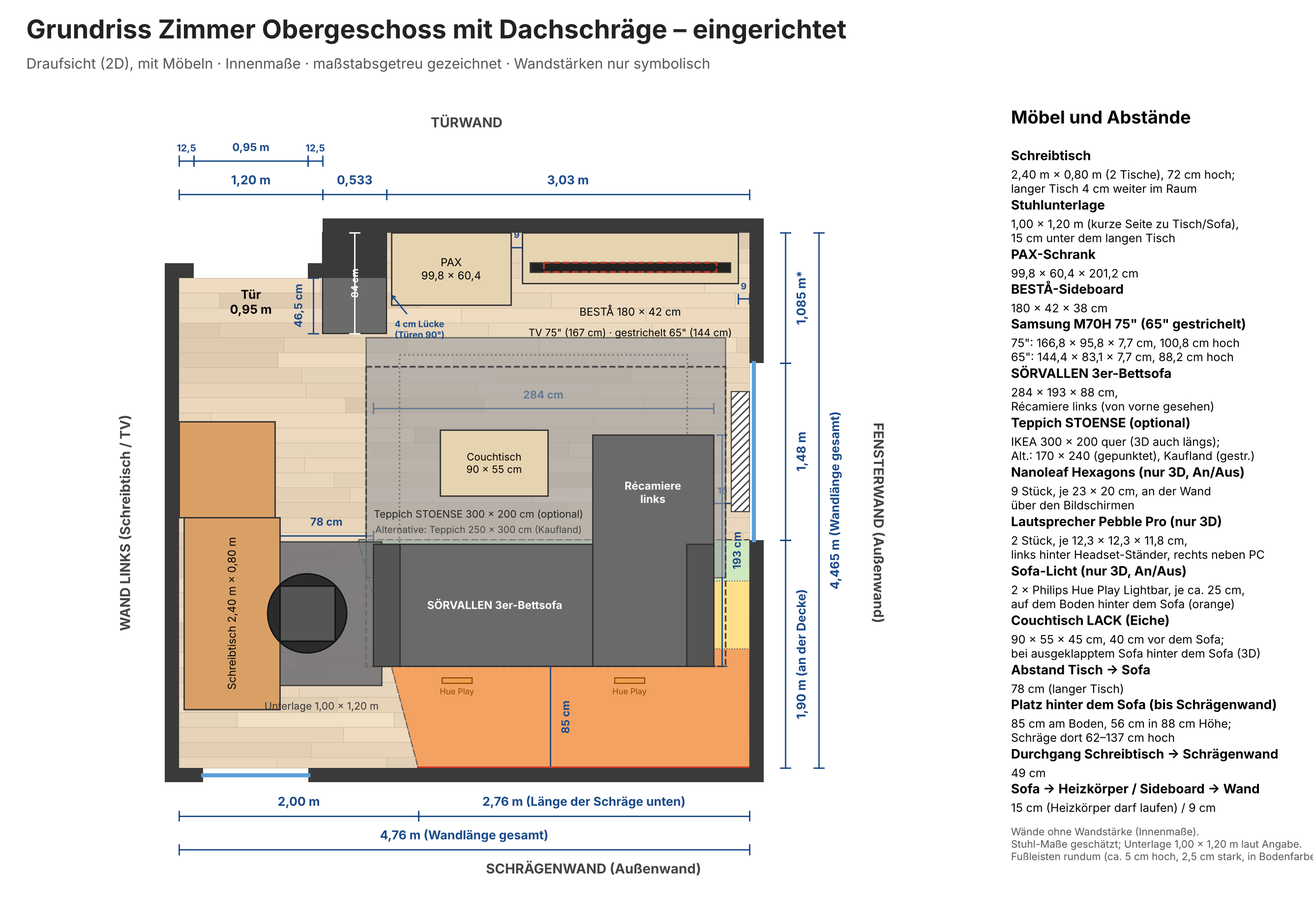
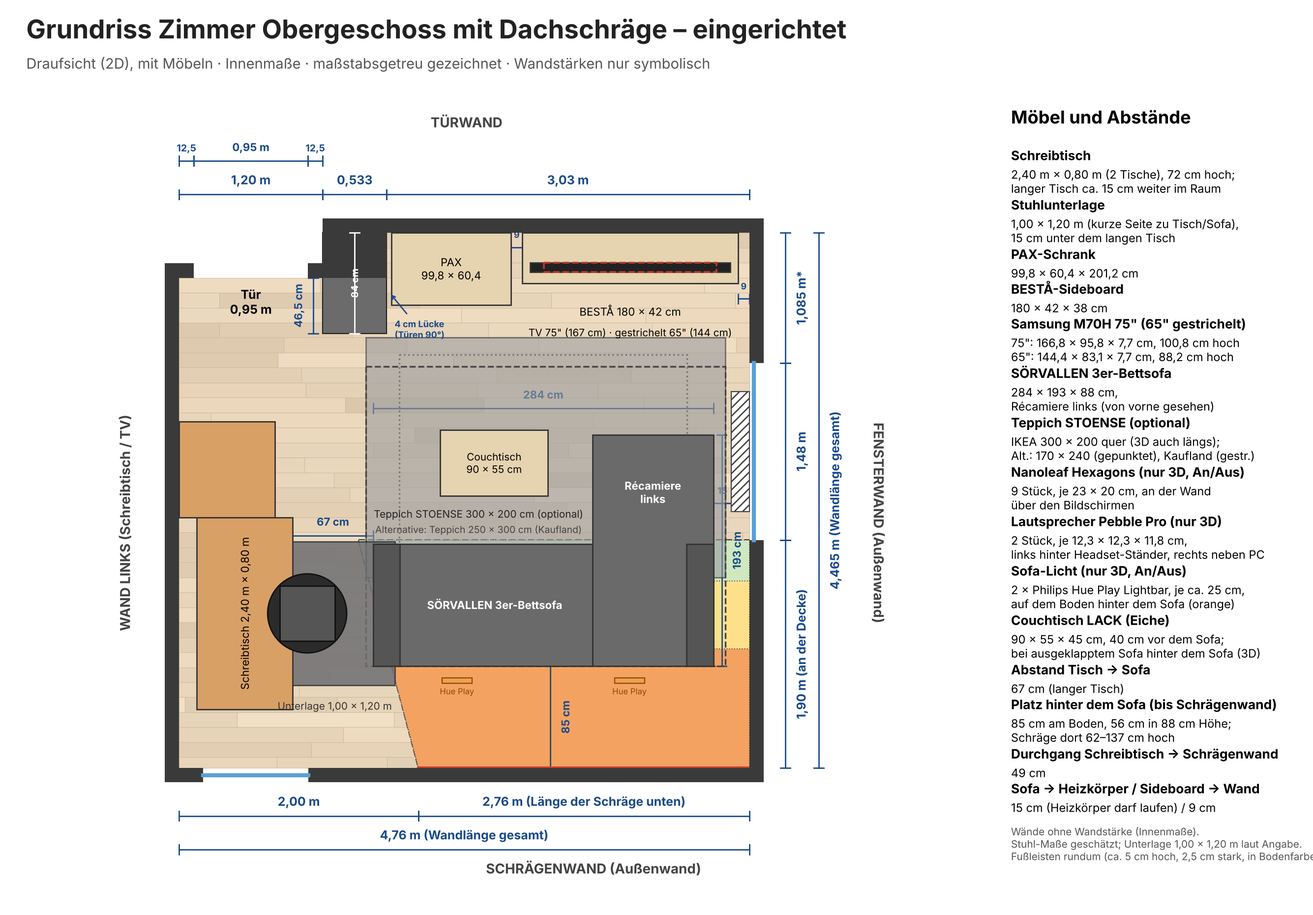
Langer Tisch ca. 15 cm weiter im Raum (aus Foto), Tisch-Sofa 67 cm, Unterlage angepasst
Claude-Session: https://claude.ai/code/session_01Hf3Bkowp5NFKLbRns8Nosg

Changed region(s): [[0.1243, 0.5613, 0.2798, 0.7796], [0.8393, 0.1871, 0.9326, 0.2183], [0.2798, 0.7172, 0.3109, 0.7484]]

diff --git a/eingerichtet.html b/eingerichtet.html
@@ -336,9 +336,9 @@ cat='tisch';
 // Schreibtisch an der linken Wand (aus zwei Tischen, zusammen 2,40 m, je 80 cm tief, 72 cm hoch)
 // 49 cm Abstand zur Schrägenwand, 1,20 m Abstand zur Türwand. Aufteilung 1,60 m + 0,80 m geschätzt.
 var DT=0.025,DHT=0.72,DEP=0.80,Y0=1.20,Y1=Y0+0.80,Y2=D-0.49,BEECH=0xd9a066,BLK=0x2b2b2b;
-box(0.04,Y1,DHT-DT,DEP+0.04,Y2,DHT,BEECH);   // Tisch links (1,60 m, Fensterseite): steht 4 cm weiter im Raum (Angabe)
+box(0.15,Y1,DHT-DT,DEP+0.15,Y2,DHT,BEECH);   // Tisch links (1,60 m, Fensterseite): steht ca. 15 cm weiter im Raum (aus Foto geschätzt)
 box(0,Y0,DHT-DT,DEP,Y1,DHT,BEECH);   // Tisch rechts (0,80 m, Türseite): steht an der Wand/Fußleiste
-[[Y1+0.15,0.04],[Y2-0.15,0.04],[Y0+0.15,0],[Y1-0.15,0]].forEach(function(q){var yc=q[0],dx=q[1];
+[[Y1+0.15,0.15],[Y2-0.15,0.15],[Y0+0.15,0],[Y1-0.15,0]].forEach(function(q){var yc=q[0],dx=q[1];
   box(0.37+dx,yc-0.03,0.04,0.43+dx,yc+0.03,DHT-DT,BLK);   // Standbein
   box(0.10+dx,yc-0.03,0,0.70+dx,yc+0.03,0.04,BLK);        // Fuß
 });
@@ -640,7 +640,7 @@ Object.keys(RUGS).forEach(function(n){var R=RUGS[n],r=R.r,s=room.children.length
 
 cat='stuhl';
 // Stuhlunterlage 100 x 120 cm + Bürostuhl (Maße geschätzt: Sitz 50 x 50, Gesamthöhe 98, Fußkreuz Ø 66)
-var MX0=0.69,MX1=1.69,MY0=2.20,MY1=3.40,CCX=1.07,CCY=2.80;   // mittig unter dem 1,60-m-Tischteil (y 2,00-3,60)   // Unterlage 1,00 m (Tisch -> Sofa, kurze Seite) x 1,20 m (längs zum Tisch), ragt 15 cm unter den langen Tisch (Angabe), reicht 7 cm unters Sofa
+var MX0=0.80,MX1=1.80,MY0=2.20,MY1=3.40,CCX=1.07,CCY=2.80;   // mittig unter dem 1,60-m-Tischteil (y 2,00-3,60)   // Unterlage 1,00 m (Tisch -> Sofa, kurze Seite) x 1,20 m (längs zum Tisch), ragt 15 cm unter den langen Tisch (Angabe), reicht 18 cm unters Sofa
 box(MX0,MY0,0,MX1,MY1,0.008,0x6e6e72);
 var CHC=0x222226;
 box(CCX-0.225,CCY-0.225,0.45,CCX+0.225,CCY+0.225,0.51,CHC);      // Sitzfläche 45 x 45
@@ -666,8 +666,8 @@ box(CCX-0.04,CCY+0.24,0.51,CCX-0.01,CCY+0.27,0.63,CHC);
     fn(hx2,vy2);
     var g=new THREE.BufferGeometry();g.setAttribute('position',new THREE.Float32BufferAttribute(v,3));
     room.add(new THREE.LineSegments(g,new THREE.LineBasicMaterial({color:0xd2691e})));}
-  mk('abstand',function(hx2){hx2(2.10,0.84,SX0);hx2(2.95,CCX+0.275,SX0);});
-  mk('stuhl',function(hx2,vy2){hx2(MY0,MX0,MX1);hx2(MY0-0.12,MX0,0.84);vy2(MX1,MY0,MY1);});
+  mk('abstand',function(hx2){hx2(2.10,0.95,SX0);hx2(2.95,CCX+0.275,SX0);});
+  mk('stuhl',function(hx2,vy2){hx2(MY0,MX0,MX1);hx2(MY0-0.12,MX0,0.95);vy2(MX1,MY0,MY1);});
 })();
 cat='tisch';
 var pcLedMats=[];
@@ -878,8 +878,8 @@ var LC={'Schreibtisch 2,40 m':'tisch','Höhe 72 cm':'tisch','Tiefe 80 cm':'tisch
  'Sideboard 180 × 42 × 38 cm':'sideboard','Sideboard TONSTAD 178,4 × 37,2 × 54,9 cm':'sideboardT','54,9 cm':'sideboardT','178,4 cm':'sideboardT','Rest bis Fensterwand ≈ 0,10 m (TONSTAD)':'sideboardT','38 cm':'sideboard','180 cm':'sideboard','Rest bis Fensterwand ≈ 0,09 m':'sideboard',
  'Fernseher 75" · Panel 166,8 × 95,8 × 7,7 cm · 22 kg (BESTÅ trägt 30 kg)':'tv','Bilddiagonale ≈ 189 cm (75 Zoll)':'tv','100,8 cm (mit Füßen)':'tv','138,8 cm gesamt':'tv',
  'Sofa SÖRVALLEN 284 × 193 × 88 cm':'sofa','284 cm':'sofa','85 cm Platz hinter dem Sofa (Schräge dort 62–137 cm hoch)':'sofa','Tiefe 102 cm':'sofa','193 cm':'sofa','Decke 137 cm: 49 cm Luft über Rücken (88 cm)':'sofa','15 cm bis Heizkörper':'sofa','Schlaffläche 239 × 147 cm':'bett','239 cm':'bett','147 cm':'bett','Bettkante bis Sideboard 89 cm':'bett','Couchtisch LACK 90 × 55 × 45 cm':'ctn','Breite 90 cm':'ctn','Tiefe 55 cm':'ctn','bis Sofa 40 cm':'ctn','bis Récamiere 36 cm':'ctn','bis Sideboard 85 cm':'ctn','Höhe 45 cm':'ctn','Couchtisch LACK 90 × 55 × 45 cm (hinter dem Sofa)':'ctb','Breite 90 cm (hinter dem Sofa)':'ctb','Tiefe 55 cm (hinter dem Sofa)':'ctb','bis Sofa 10 cm':'ctb','bis Schrägenwand 20 cm':'ctb','Tischhöhe 45 cm':'ctb',
- 'Unterlage 120 cm':'stuhl','15 cm unter Tischplatte':'stuhl','Unterlage 100 cm':'stuhl','Unterlage 7 cm unterm Sofa':'stuhl','Bürostuhl (geschätzt)':'stuhl',
- 'Tisch bis Sofa 78 cm':'abstand','Stuhl–Sofa 27 cm':'abstand'};Object.assign(LC,RUGLC);LEDLB.forEach(function(l){LC[l[0]]='led';});TVLB.forEach(function(l){LC[l[0]]='tvled';});TVLB65.forEach(function(l){LC[l[0]]='tvled65';});TVLBL65.forEach(function(l){LC[l[0]]='tv65';});TVLB85.forEach(function(l){LC[l[0]]='tvled85';});TVLBL85.forEach(function(l){LC[l[0]]='tv85';});SFLB.forEach(function(l){LC[l[0]]='sofaled';});
+ 'Unterlage 120 cm':'stuhl','15 cm unter Tischplatte':'stuhl','Unterlage 100 cm':'stuhl','Unterlage 18 cm unterm Sofa':'stuhl','Bürostuhl (geschätzt)':'stuhl',
+ 'Tisch bis Sofa 67 cm':'abstand','Stuhl–Sofa 27 cm':'abstand'};Object.assign(LC,RUGLC);LEDLB.forEach(function(l){LC[l[0]]='led';});TVLB.forEach(function(l){LC[l[0]]='tvled';});TVLB65.forEach(function(l){LC[l[0]]='tvled65';});TVLBL65.forEach(function(l){LC[l[0]]='tv65';});TVLB85.forEach(function(l){LC[l[0]]='tvled85';});TVLBL85.forEach(function(l){LC[l[0]]='tv85';});SFLB.forEach(function(l){LC[l[0]]='sofaled';});
 var labels=[
  ['4,76 m',W/2,-NY-0.25,0],['4,465 m (Fensterwand)',W+0.25,(D-NY)/2,0],['4,09 m',-0.25,D/2,0],['Raumhöhe 2,30 m*',-0.2,-0.2,H/2],
  ['Schräge unten 0,62 m',W+0.2,D,K/2],['Schräge 1,90 m',W+0.15,YS,H],['Tür 0,95 m',0.6,-0.1,2.12],
@@ -895,8 +895,8 @@ var labels=[
  ['Schlaffläche 239 × 147 cm',3.05,(BYF+BYR)/2,0.9],['239 cm',(BXA+BXB)/2,BYF-0.15,0.02],['147 cm',SX0-0.12,(BYF+BYR)/2,0.02],['Bettkante bis Sideboard 89 cm',4.10,(SBD+BYF)/2,0.02],
  ['Couchtisch LACK 90 × 55 × 45 cm',(CTN[0]+CTN[2])/2,(CTN[1]+CTN[3])/2,0.62],['Breite 90 cm',(CTN[0]+CTN[2])/2,CTN[1]-0.10,0.02],['Tiefe 55 cm',2.08,(CTN[1]+CTN[3])/2,0.02],['bis Sofa 40 cm',2.08,(CTN[3]+D-SGAP-1.02)/2,0.02],['bis Récamiere 36 cm',(CTN[2]+SX0+1.825)/2,1.55,0.02],['bis Sideboard 85 cm',2.75,(SBD+CTN[1])/2,0.02],['Höhe 45 cm',CTN[2]+0.06,1.545,0.22],['Couchtisch LACK 90 × 55 × 45 cm (hinter dem Sofa)',(CTB[0]+CTB[2])/2,(CTB[1]+CTB[3])/2,0.62],['Breite 90 cm (hinter dem Sofa)',(CTB[0]+CTB[2])/2,CTB[3]+0.10,0.02],['Tiefe 55 cm (hinter dem Sofa)',2.50,(CTB[1]+CTB[3])/2,0.02],['bis Sofa 10 cm',2.50,D-SGAP+0.05,0.02],['bis Schrägenwand 20 cm',3.70,(CTB[3]+D)/2,0.02],['Tischhöhe 45 cm',CTB[2]+0.06,(CTB[1]+CTB[3])/2,0.22],
  
- ['Tisch bis Sofa 78 cm',(0.84+SX0)/2,2.10,0.03],['Unterlage 100 cm',(MX0+MX1)/2,MY0-0.04,0.03],['15 cm unter Tischplatte',MX0+0.07,MY0-0.12,0.03],['Unterlage 120 cm',MX1,(MY0+MY1)/2,0.03],
- ['Stuhl–Sofa 27 cm',(CCX+0.275+SX0)/2,2.95,0.03],['Unterlage 7 cm unterm Sofa',MX1,MY0-0.12,0.03],['Bürostuhl (geschätzt)',CCX,CCY,1.12],['99,8 cm',PX0+PW/2,0.75,0.02],['Lücke 4 cm (Türen 90°)',(1.733+PX0)/2,0.30,0.02],['180 cm',SB0+SBW/2,0.75,0.02],['Rest bis Fensterwand ≈ 0,09 m',(SB0+SBW+W)/2,0.75,0.02],['178,4 cm',SBT.X0+SBT.W/2,0.75,0.02],['Rest bis Fensterwand ≈ 0,10 m (TONSTAD)',SBT.X0+SBT.W+0.115,0.75,0.02]
+ ['Tisch bis Sofa 67 cm',(0.95+SX0)/2,2.10,0.03],['Unterlage 100 cm',(MX0+MX1)/2,MY0-0.04,0.03],['15 cm unter Tischplatte',MX0+0.07,MY0-0.12,0.03],['Unterlage 120 cm',MX1,(MY0+MY1)/2,0.03],
+ ['Stuhl–Sofa 27 cm',(CCX+0.275+SX0)/2,2.95,0.03],['Unterlage 18 cm unterm Sofa',MX1,MY0-0.12,0.03],['Bürostuhl (geschätzt)',CCX,CCY,1.12],['99,8 cm',PX0+PW/2,0.75,0.02],['Lücke 4 cm (Türen 90°)',(1.733+PX0)/2,0.30,0.02],['180 cm',SB0+SBW/2,0.75,0.02],['Rest bis Fensterwand ≈ 0,09 m',(SB0+SBW+W)/2,0.75,0.02],['178,4 cm',SBT.X0+SBT.W/2,0.75,0.02],['Rest bis Fensterwand ≈ 0,10 m (TONSTAD)',SBT.X0+SBT.W+0.115,0.75,0.02]
 ].concat(RUGLB).concat(LEDLB).concat(TVLB).concat(TVLB65).concat(TVLBL65).concat(TVLB85).concat(TVLBL85).concat(SFLB).map(function(l){var d=document.createElement('div');d.className='lbl';d.textContent=l[0];stage.appendChild(d);return {el:d,p:P(l[1],l[2]-(({schrank:1,sideboard:1,sideboardT:1,tv:1,tv65:1,tv85:1,tvled:1,tvled65:1,tvled85:1})[LC[l[0]]]?NY:0),l[3]),cat:LC[l[0]]||'raum'};});
 // Nische: Schrank, Sideboard, Fernseher und TV-LED stehen an der neuen Rückwand (NY weiter hinten)
 // Texturen für Möbel, die bisher nur eine Grundfarbe hatten (Lambert-Farbe wirkt als Tönung auf die helle Textur)

diff --git a/eingerichtet_mobil.html b/eingerichtet_mobil.html
@@ -349,9 +349,9 @@ cat='tisch';
 // Schreibtisch an der linken Wand (aus zwei Tischen, zusammen 2,40 m, je 80 cm tief, 72 cm hoch)
 // 49 cm Abstand zur Schrägenwand, 1,20 m Abstand zur Türwand. Aufteilung 1,60 m + 0,80 m geschätzt.
 var DT=0.025,DHT=0.72,DEP=0.80,Y0=1.20,Y1=Y0+0.80,Y2=D-0.49,BEECH=0xd9a066,BLK=0x2b2b2b;
-box(0.04,Y1,DHT-DT,DEP+0.04,Y2,DHT,BEECH);   // Tisch links (1,60 m, Fensterseite): steht 4 cm weiter im Raum (Angabe)
+box(0.15,Y1,DHT-DT,DEP+0.15,Y2,DHT,BEECH);   // Tisch links (1,60 m, Fensterseite): steht ca. 15 cm weiter im Raum (aus Foto geschätzt)
 box(0,Y0,DHT-DT,DEP,Y1,DHT,BEECH);   // Tisch rechts (0,80 m, Türseite): steht an der Wand/Fußleiste
-[[Y1+0.15,0.04],[Y2-0.15,0.04],[Y0+0.15,0],[Y1-0.15,0]].forEach(function(q){var yc=q[0],dx=q[1];
+[[Y1+0.15,0.15],[Y2-0.15,0.15],[Y0+0.15,0],[Y1-0.15,0]].forEach(function(q){var yc=q[0],dx=q[1];
   box(0.37+dx,yc-0.03,0.04,0.43+dx,yc+0.03,DHT-DT,BLK);   // Standbein
   box(0.10+dx,yc-0.03,0,0.70+dx,yc+0.03,0.04,BLK);        // Fuß
 });
@@ -653,7 +653,7 @@ Object.keys(RUGS).forEach(function(n){var R=RUGS[n],r=R.r,s=room.children.length
 
 cat='stuhl';
 // Stuhlunterlage 100 x 120 cm + Bürostuhl (Maße geschätzt: Sitz 50 x 50, Gesamthöhe 98, Fußkreuz Ø 66)
-var MX0=0.69,MX1=1.69,MY0=2.20,MY1=3.40,CCX=1.07,CCY=2.80;   // mittig unter dem 1,60-m-Tischteil (y 2,00-3,60)   // Unterlage 1,00 m (Tisch -> Sofa, kurze Seite) x 1,20 m (längs zum Tisch), ragt 15 cm unter den langen Tisch (Angabe), reicht 7 cm unters Sofa
+var MX0=0.80,MX1=1.80,MY0=2.20,MY1=3.40,CCX=1.07,CCY=2.80;   // mittig unter dem 1,60-m-Tischteil (y 2,00-3,60)   // Unterlage 1,00 m (Tisch -> Sofa, kurze Seite) x 1,20 m (längs zum Tisch), ragt 15 cm unter den langen Tisch (Angabe), reicht 18 cm unters Sofa
 box(MX0,MY0,0,MX1,MY1,0.008,0x6e6e72);
 var CHC=0x222226;
 box(CCX-0.225,CCY-0.225,0.45,CCX+0.225,CCY+0.225,0.51,CHC);      // Sitzfläche 45 x 45
@@ -679,8 +679,8 @@ box(CCX-0.04,CCY+0.24,0.51,CCX-0.01,CCY+0.27,0.63,CHC);
     fn(hx2,vy2);
     var g=new THREE.BufferGeometry();g.setAttribute('position',new THREE.Float32BufferAttribute(v,3));
     room.add(new THREE.LineSegments(g,new THREE.LineBasicMaterial({color:0xd2691e})));}
-  mk('abstand',function(hx2){hx2(2.10,0.84,SX0);hx2(2.95,CCX+0.275,SX0);});
-  mk('stuhl',function(hx2,vy2){hx2(MY0,MX0,MX1);hx2(MY0-0.12,MX0,0.84);vy2(MX1,MY0,MY1);});
+  mk('abstand',function(hx2){hx2(2.10,0.95,SX0);hx2(2.95,CCX+0.275,SX0);});
+  mk('stuhl',function(hx2,vy2){hx2(MY0,MX0,MX1);hx2(MY0-0.12,MX0,0.95);vy2(MX1,MY0,MY1);});
 })();
 cat='tisch';
 var pcLedMats=[];
@@ -891,8 +891,8 @@ var LC={'Schreibtisch 2,40 m':'tisch','Höhe 72 cm':'tisch','Tiefe 80 cm':'tisch
  'Sideboard 180 × 42 × 38 cm':'sideboard','Sideboard TONSTAD 178,4 × 37,2 × 54,9 cm':'sideboardT','54,9 cm':'sideboardT','178,4 cm':'sideboardT','Rest bis Fensterwand ≈ 0,10 m (TONSTAD)':'sideboardT','38 cm':'sideboard','180 cm':'sideboard','Rest bis Fensterwand ≈ 0,09 m':'sideboard',
  'Fernseher 75" · Panel 166,8 × 95,8 × 7,7 cm · 22 kg (BESTÅ trägt 30 kg)':'tv','Bilddiagonale ≈ 189 cm (75 Zoll)':'tv','100,8 cm (mit Füßen)':'tv','138,8 cm gesamt':'tv',
  'Sofa SÖRVALLEN 284 × 193 × 88 cm':'sofa','284 cm':'sofa','85 cm Platz hinter dem Sofa (Schräge dort 62–137 cm hoch)':'sofa','Tiefe 102 cm':'sofa','193 cm':'sofa','Decke 137 cm: 49 cm Luft über Rücken (88 cm)':'sofa','15 cm bis Heizkörper':'sofa','Schlaffläche 239 × 147 cm':'bett','239 cm':'bett','147 cm':'bett','Bettkante bis Sideboard 89 cm':'bett','Couchtisch LACK 90 × 55 × 45 cm':'ctn','Breite 90 cm':'ctn','Tiefe 55 cm':'ctn','bis Sofa 40 cm':'ctn','bis Récamiere 36 cm':'ctn','bis Sideboard 85 cm':'ctn','Höhe 45 cm':'ctn','Couchtisch LACK 90 × 55 × 45 cm (hinter dem Sofa)':'ctb','Breite 90 cm (hinter dem Sofa)':'ctb','Tiefe 55 cm (hinter dem Sofa)':'ctb','bis Sofa 10 cm':'ctb','bis Schrägenwand 20 cm':'ctb','Tischhöhe 45 cm':'ctb',
- 'Unterlage 120 cm':'stuhl','15 cm unter Tischplatte':'stuhl','Unterlage 100 cm':'stuhl','Unterlage 7 cm unterm Sofa':'stuhl','Bürostuhl (geschätzt)':'stuhl',
- 'Tisch bis Sofa 78 cm':'abstand','Stuhl–Sofa 27 cm':'abstand'};Object.assign(LC,RUGLC);LEDLB.forEach(function(l){LC[l[0]]='led';});TVLB.forEach(function(l){LC[l[0]]='tvled';});TVLB65.forEach(function(l){LC[l[0]]='tvled65';});TVLBL65.forEach(function(l){LC[l[0]]='tv65';});TVLB85.forEach(function(l){LC[l[0]]='tvled85';});TVLBL85.forEach(function(l){LC[l[0]]='tv85';});SFLB.forEach(function(l){LC[l[0]]='sofaled';});
+ 'Unterlage 120 cm':'stuhl','15 cm unter Tischplatte':'stuhl','Unterlage 100 cm':'stuhl','Unterlage 18 cm unterm Sofa':'stuhl','Bürostuhl (geschätzt)':'stuhl',
+ 'Tisch bis Sofa 67 cm':'abstand','Stuhl–Sofa 27 cm':'abstand'};Object.assign(LC,RUGLC);LEDLB.forEach(function(l){LC[l[0]]='led';});TVLB.forEach(function(l){LC[l[0]]='tvled';});TVLB65.forEach(function(l){LC[l[0]]='tvled65';});TVLBL65.forEach(function(l){LC[l[0]]='tv65';});TVLB85.forEach(function(l){LC[l[0]]='tvled85';});TVLBL85.forEach(function(l){LC[l[0]]='tv85';});SFLB.forEach(function(l){LC[l[0]]='sofaled';});
 var labels=[
  ['4,76 m',W/2,-NY-0.25,0],['4,465 m (Fensterwand)',W+0.25,(D-NY)/2,0],['4,09 m',-0.25,D/2,0],['Raumhöhe 2,30 m*',-0.2,-0.2,H/2],
  ['Schräge unten 0,62 m',W+0.2,D,K/2],['Schräge 1,90 m',W+0.15,YS,H],['Tür 0,95 m',0.6,-0.1,2.12],
@@ -908,8 +908,8 @@ var labels=[
  ['Schlaffläche 239 × 147 cm',3.05,(BYF+BYR)/2,0.9],['239 cm',(BXA+BXB)/2,BYF-0.15,0.02],['147 cm',SX0-0.12,(BYF+BYR)/2,0.02],['Bettkante bis Sideboard 89 cm',4.10,(SBD+BYF)/2,0.02],
  ['Couchtisch LACK 90 × 55 × 45 cm',(CTN[0]+CTN[2])/2,(CTN[1]+CTN[3])/2,0.62],['Breite 90 cm',(CTN[0]+CTN[2])/2,CTN[1]-0.10,0.02],['Tiefe 55 cm',2.08,(CTN[1]+CTN[3])/2,0.02],['bis Sofa 40 cm',2.08,(CTN[3]+D-SGAP-1.02)/2,0.02],['bis Récamiere 36 cm',(CTN[2]+SX0+1.825)/2,1.55,0.02],['bis Sideboard 85 cm',2.75,(SBD+CTN[1])/2,0.02],['Höhe 45 cm',CTN[2]+0.06,1.545,0.22],['Couchtisch LACK 90 × 55 × 45 cm (hinter dem Sofa)',(CTB[0]+CTB[2])/2,(CTB[1]+CTB[3])/2,0.62],['Breite 90 cm (hinter dem Sofa)',(CTB[0]+CTB[2])/2,CTB[3]+0.10,0.02],['Tiefe 55 cm (hinter dem Sofa)',2.50,(CTB[1]+CTB[3])/2,0.02],['bis Sofa 10 cm',2.50,D-SGAP+0.05,0.02],['bis Schrägenwand 20 cm',3.70,(CTB[3]+D)/2,0.02],['Tischhöhe 45 cm',CTB[2]+0.06,(CTB[1]+CTB[3])/2,0.22],
  
- ['Tisch bis Sofa 78 cm',(0.84+SX0)/2,2.10,0.03],['Unterlage 100 cm',(MX0+MX1)/2,MY0-0.04,0.03],['15 cm unter Tischplatte',MX0+0.07,MY0-0.12,0.03],['Unterlage 120 cm',MX1,(MY0+MY1)/2,0.03],
- ['Stuhl–Sofa 27 cm',(CCX+0.275+SX0)/2,2.95,0.03],['Unterlage 7 cm unterm Sofa',MX1,MY0-0.12,0.03],['Bürostuhl (geschätzt)',CCX,CCY,1.12],['99,8 cm',PX0+PW/2,0.75,0.02],['Lücke 4 cm (Türen 90°)',(1.733+PX0)/2,0.30,0.02],['180 cm',SB0+SBW/2,0.75,0.02],['Rest bis Fensterwand ≈ 0,09 m',(SB0+SBW+W)/2,0.75,0.02],['178,4 cm',SBT.X0+SBT.W/2,0.75,0.02],['Rest bis Fensterwand ≈ 0,10 m (TONSTAD)',SBT.X0+SBT.W+0.115,0.75,0.02]
+ ['Tisch bis Sofa 67 cm',(0.95+SX0)/2,2.10,0.03],['Unterlage 100 cm',(MX0+MX1)/2,MY0-0.04,0.03],['15 cm unter Tischplatte',MX0+0.07,MY0-0.12,0.03],['Unterlage 120 cm',MX1,(MY0+MY1)/2,0.03],
+ ['Stuhl–Sofa 27 cm',(CCX+0.275+SX0)/2,2.95,0.03],['Unterlage 18 cm unterm Sofa',MX1,MY0-0.12,0.03],['Bürostuhl (geschätzt)',CCX,CCY,1.12],['99,8 cm',PX0+PW/2,0.75,0.02],['Lücke 4 cm (Türen 90°)',(1.733+PX0)/2,0.30,0.02],['180 cm',SB0+SBW/2,0.75,0.02],['Rest bis Fensterwand ≈ 0,09 m',(SB0+SBW+W)/2,0.75,0.02],['178,4 cm',SBT.X0+SBT.W/2,0.75,0.02],['Rest bis Fensterwand ≈ 0,10 m (TONSTAD)',SBT.X0+SBT.W+0.115,0.75,0.02]
 ].concat(RUGLB).concat(LEDLB).concat(TVLB).concat(TVLB65).concat(TVLBL65).concat(TVLB85).concat(TVLBL85).concat(SFLB).map(function(l){var d=document.createElement('div');d.className='lbl';d.textContent=l[0];stage.appendChild(d);return {el:d,p:P(l[1],l[2]-(({schrank:1,sideboard:1,sideboardT:1,tv:1,tv65:1,tv85:1,tvled:1,tvled65:1,tvled85:1})[LC[l[0]]]?NY:0),l[3]),cat:LC[l[0]]||'raum'};});
 // Nische: Schrank, Sideboard, Fernseher und TV-LED stehen an der neuen Rückwand (NY weiter hinten)
 // Texturen für Möbel, die bisher nur eine Grundfarbe hatten (Lambert-Farbe wirkt als Tönung auf die helle Textur)

diff --git a/interaktiv.html b/interaktiv.html
@@ -336,9 +336,9 @@ cat='tisch';
 // Schreibtisch an der linken Wand (aus zwei Tischen, zusammen 2,40 m, je 80 cm tief, 72 cm hoch)
 // 49 cm Abstand zur Schrägenwand, 1,20 m Abstand zur Türwand. Aufteilung 1,60 m + 0,80 m geschätzt.
 var DT=0.025,DHT=0.72,DEP=0.80,Y0=1.20,Y1=Y0+0.80,Y2=D-0.49,BEECH=0xd9a066,BLK=0x2b2b2b;
-box(0.04,Y1,DHT-DT,DEP+0.04,Y2,DHT,BEECH);   // Tisch links (1,60 m, Fensterseite): steht 4 cm weiter im Raum (Angabe)
+box(0.15,Y1,DHT-DT,DEP+0.15,Y2,DHT,BEECH);   // Tisch links (1,60 m, Fensterseite): steht ca. 15 cm weiter im Raum (aus Foto geschätzt)
 box(0,Y0,DHT-DT,DEP,Y1,DHT,BEECH);   // Tisch rechts (0,80 m, Türseite): steht an der Wand/Fußleiste
-[[Y1+0.15,0.04],[Y2-0.15,0.04],[Y0+0.15,0],[Y1-0.15,0]].forEach(function(q){var yc=q[0],dx=q[1];
+[[Y1+0.15,0.15],[Y2-0.15,0.15],[Y0+0.15,0],[Y1-0.15,0]].forEach(function(q){var yc=q[0],dx=q[1];
   box(0.37+dx,yc-0.03,0.04,0.43+dx,yc+0.03,DHT-DT,BLK);   // Standbein
   box(0.10+dx,yc-0.03,0,0.70+dx,yc+0.03,0.04,BLK);        // Fuß
 });
@@ -640,7 +640,7 @@ Object.keys(RUGS).forEach(function(n){var R=RUGS[n],r=R.r,s=room.children.length
 
 cat='stuhl';
 // Stuhlunterlage 100 x 120 cm + Bürostuhl (Maße geschätzt: Sitz 50 x 50, Gesamthöhe 98, Fußkreuz Ø 66)
-var MX0=0.69,MX1=1.69,MY0=2.20,MY1=3.40,CCX=1.07,CCY=2.80;   // mittig unter dem 1,60-m-Tischteil (y 2,00-3,60)   // Unterlage 1,00 m (Tisch -> Sofa, kurze Seite) x 1,20 m (längs zum Tisch), ragt 15 cm unter den langen Tisch (Angabe), reicht 7 cm unters Sofa
+var MX0=0.80,MX1=1.80,MY0=2.20,MY1=3.40,CCX=1.07,CCY=2.80;   // mittig unter dem 1,60-m-Tischteil (y 2,00-3,60)   // Unterlage 1,00 m (Tisch -> Sofa, kurze Seite) x 1,20 m (längs zum Tisch), ragt 15 cm unter den langen Tisch (Angabe), reicht 18 cm unters Sofa
 box(MX0,MY0,0,MX1,MY1,0.008,0x6e6e72);
 var CHC=0x222226;
 box(CCX-0.225,CCY-0.225,0.45,CCX+0.225,CCY+0.225,0.51,CHC);      // Sitzfläche 45 x 45
@@ -666,8 +666,8 @@ box(CCX-0.04,CCY+0.24,0.51,CCX-0.01,CCY+0.27,0.63,CHC);
     fn(hx2,vy2);
     var g=new THREE.BufferGeometry();g.setAttribute('position',new THREE.Float32BufferAttribute(v,3));
     room.add(new THREE.LineSegments(g,new THREE.LineBasicMaterial({color:0xd2691e})));}
-  mk('abstand',function(hx2){hx2(2.10,0.84,SX0);hx2(2.95,CCX+0.275,SX0);});
-  mk('stuhl',function(hx2,vy2){hx2(MY0,MX0,MX1);hx2(MY0-0.12,MX0,0.84);vy2(MX1,MY0,MY1);});
+  mk('abstand',function(hx2){hx2(2.10,0.95,SX0);hx2(2.95,CCX+0.275,SX0);});
+  mk('stuhl',function(hx2,vy2){hx2(MY0,MX0,MX1);hx2(MY0-0.12,MX0,0.95);vy2(MX1,MY0,MY1);});
 })();
 cat='tisch';
 var pcLedMats=[];
@@ -878,8 +878,8 @@ var LC={'Schreibtisch 2,40 m':'tisch','Höhe 72 cm':'tisch','Tiefe 80 cm':'tisch
  'Sideboard 180 × 42 × 38 cm':'sideboard','Sideboard TONSTAD 178,4 × 37,2 × 54,9 cm':'sideboardT','54,9 cm':'sideboardT','178,4 cm':'sideboardT','Rest bis Fensterwand ≈ 0,10 m (TONSTAD)':'sideboardT','38 cm':'sideboard','180 cm':'sideboard','Rest bis Fensterwand ≈ 0,09 m':'sideboard',
  'Fernseher 75" · Panel 166,8 × 95,8 × 7,7 cm · 22 kg (BESTÅ trägt 30 kg)':'tv','Bilddiagonale ≈ 189 cm (75 Zoll)':'tv','100,8 cm (mit Füßen)':'tv','138,8 cm gesamt':'tv',
  'Sofa SÖRVALLEN 284 × 193 × 88 cm':'sofa','284 cm':'sofa','85 cm Platz hinter dem Sofa (Schräge dort 62–137 cm hoch)':'sofa','Tiefe 102 cm':'sofa','193 cm':'sofa','Decke 137 cm: 49 cm Luft über Rücken (88 cm)':'sofa','15 cm bis Heizkörper':'sofa','Schlaffläche 239 × 147 cm':'bett','239 cm':'bett','147 cm':'bett','Bettkante bis Sideboard 89 cm':'bett','Couchtisch LACK 90 × 55 × 45 cm':'ctn','Breite 90 cm':'ctn','Tiefe 55 cm':'ctn','bis Sofa 40 cm':'ctn','bis Récamiere 36 cm':'ctn','bis Sideboard 85 cm':'ctn','Höhe 45 cm':'ctn','Couchtisch LACK 90 × 55 × 45 cm (hinter dem Sofa)':'ctb','Breite 90 cm (hinter dem Sofa)':'ctb','Tiefe 55 cm (hinter dem Sofa)':'ctb','bis Sofa 10 cm':'ctb','bis Schrägenwand 20 cm':'ctb','Tischhöhe 45 cm':'ctb',
- 'Unterlage 120 cm':'stuhl','15 cm unter Tischplatte':'stuhl','Unterlage 100 cm':'stuhl','Unterlage 7 cm unterm Sofa':'stuhl','Bürostuhl (geschätzt)':'stuhl',
- 'Tisch bis Sofa 78 cm':'abstand','Stuhl–Sofa 27 cm':'abstand'};Object.assign(LC,RUGLC);LEDLB.forEach(function(l){LC[l[0]]='led';});TVLB.forEach(function(l){LC[l[0]]='tvled';});TVLB65.forEach(function(l){LC[l[0]]='tvled65';});TVLBL65.forEach(function(l){LC[l[0]]='tv65';});TVLB85.forEach(function(l){LC[l[0]]='tvled85';});TVLBL85.forEach(function(l){LC[l[0]]='tv85';});SFLB.forEach(function(l){LC[l[0]]='sofaled';});
+ 'Unterlage 120 cm':'stuhl','15 cm unter Tischplatte':'stuhl','Unterlage 100 cm':'stuhl','Unterlage 18 cm unterm Sofa':'stuhl','Bürostuhl (geschätzt)':'stuhl',
+ 'Tisch bis Sofa 67 cm':'abstand','Stuhl–Sofa 27 cm':'abstand'};Object.assign(LC,RUGLC);LEDLB.forEach(function(l){LC[l[0]]='led';});TVLB.forEach(function(l){LC[l[0]]='tvled';});TVLB65.forEach(function(l){LC[l[0]]='tvled65';});TVLBL65.forEach(function(l){LC[l[0]]='tv65';});TVLB85.forEach(function(l){LC[l[0]]='tvled85';});TVLBL85.forEach(function(l){LC[l[0]]='tv85';});SFLB.forEach(function(l){LC[l[0]]='sofaled';});
 var labels=[
  ['4,76 m',W/2,-NY-0.25,0],['4,465 m (Fensterwand)',W+0.25,(D-NY)/2,0],['4,09 m',-0.25,D/2,0],['Raumhöhe 2,30 m*',-0.2,-0.2,H/2],
  ['Schräge unten 0,62 m',W+0.2,D,K/2],['Schräge 1,90 m',W+0.15,YS,H],['Tür 0,95 m',0.6,-0.1,2.12],
@@ -895,8 +895,8 @@ var labels=[
  ['Schlaffläche 239 × 147 cm',3.05,(BYF+BYR)/2,0.9],['239 cm',(BXA+BXB)/2,BYF-0.15,0.02],['147 cm',SX0-0.12,(BYF+BYR)/2,0.02],['Bettkante bis Sideboard 89 cm',4.10,(SBD+BYF)/2,0.02],
  ['Couchtisch LACK 90 × 55 × 45 cm',(CTN[0]+CTN[2])/2,(CTN[1]+CTN[3])/2,0.62],['Breite 90 cm',(CTN[0]+CTN[2])/2,CTN[1]-0.10,0.02],['Tiefe 55 cm',2.08,(CTN[1]+CTN[3])/2,0.02],['bis Sofa 40 cm',2.08,(CTN[3]+D-SGAP-1.02)/2,0.02],['bis Récamiere 36 cm',(CTN[2]+SX0+1.825)/2,1.55,0.02],['bis Sideboard 85 cm',2.75,(SBD+CTN[1])/2,0.02],['Höhe 45 cm',CTN[2]+0.06,1.545,0.22],['Couchtisch LACK 90 × 55 × 45 cm (hinter dem Sofa)',(CTB[0]+CTB[2])/2,(CTB[1]+CTB[3])/2,0.62],['Breite 90 cm (hinter dem Sofa)',(CTB[0]+CTB[2])/2,CTB[3]+0.10,0.02],['Tiefe 55 cm (hinter dem Sofa)',2.50,(CTB[1]+CTB[3])/2,0.02],['bis Sofa 10 cm',2.50,D-SGAP+0.05,0.02],['bis Schrägenwand 20 cm',3.70,(CTB[3]+D)/2,0.02],['Tischhöhe 45 cm',CTB[2]+0.06,(CTB[1]+CTB[3])/2,0.22],
  
- ['Tisch bis Sofa 78 cm',(0.84+SX0)/2,2.10,0.03],['Unterlage 100 cm',(MX0+MX1)/2,MY0-0.04,0.03],['15 cm unter Tischplatte',MX0+0.07,MY0-0.12,0.03],['Unterlage 120 cm',MX1,(MY0+MY1)/2,0.03],
- ['Stuhl–Sofa 27 cm',(CCX+0.275+SX0)/2,2.95,0.03],['Unterlage 7 cm unterm Sofa',MX1,MY0-0.12,0.03],['Bürostuhl (geschätzt)',CCX,CCY,1.12],['99,8 cm',PX0+PW/2,0.75,0.02],['Lücke 4 cm (Türen 90°)',(1.733+PX0)/2,0.30,0.02],['180 cm',SB0+SBW/2,0.75,0.02],['Rest bis Fensterwand ≈ 0,09 m',(SB0+SBW+W)/2,0.75,0.02],['178,4 cm',SBT.X0+SBT.W/2,0.75,0.02],['Rest bis Fensterwand ≈ 0,10 m (TONSTAD)',SBT.X0+SBT.W+0.115,0.75,0.02]
+ ['Tisch bis Sofa 67 cm',(0.95+SX0)/2,2.10,0.03],['Unterlage 100 cm',(MX0+MX1)/2,MY0-0.04,0.03],['15 cm unter Tischplatte',MX0+0.07,MY0-0.12,0.03],['Unterlage 120 cm',MX1,(MY0+MY1)/2,0.03],
+ ['Stuhl–Sofa 27 cm',(CCX+0.275+SX0)/2,2.95,0.03],['Unterlage 18 cm unterm Sofa',MX1,MY0-0.12,0.03],['Bürostuhl (geschätzt)',CCX,CCY,1.12],['99,8 cm',PX0+PW/2,0.75,0.02],['Lücke 4 cm (Türen 90°)',(1.733+PX0)/2,0.30,0.02],['180 cm',SB0+SBW/2,0.75,0.02],['Rest bis Fensterwand ≈ 0,09 m',(SB0+SBW+W)/2,0.75,0.02],['178,4 cm',SBT.X0+SBT.W/2,0.75,0.02],['Rest bis Fensterwand ≈ 0,10 m (TONSTAD)',SBT.X0+SBT.W+0.115,0.75,0.02]
 ].concat(RUGLB).concat(LEDLB).concat(TVLB).concat(TVLB65).concat(TVLBL65).concat(TVLB85).concat(TVLBL85).concat(SFLB).map(function(l){var d=document.createElement('div');d.className='lbl';d.textContent=l[0];stage.appendChild(d);return {el:d,p:P(l[1],l[2]-(({schrank:1,sideboard:1,sideboardT:1,tv:1,tv65:1,tv85:1,tvled:1,tvled65:1,tvled85:1})[LC[l[0]]]?NY:0),l[3]),cat:LC[l[0]]||'raum'};});
 // Nische: Schrank, Sideboard, Fernseher und TV-LED stehen an der neuen Rückwand (NY weiter hinten)
 // Texturen für Möbel, die bisher nur eine Grundfarbe hatten (Lambert-Farbe wirkt als Tönung auf die helle Textur)

diff --git a/interaktiv_mobil.html b/interaktiv_mobil.html
@@ -349,9 +349,9 @@ cat='tisch';
 // Schreibtisch an der linken Wand (aus zwei Tischen, zusammen 2,40 m, je 80 cm tief, 72 cm hoch)
 // 49 cm Abstand zur Schrägenwand, 1,20 m Abstand zur Türwand. Aufteilung 1,60 m + 0,80 m geschätzt.
 var DT=0.025,DHT=0.72,DEP=0.80,Y0=1.20,Y1=Y0+0.80,Y2=D-0.49,BEECH=0xd9a066,BLK=0x2b2b2b;
-box(0.04,Y1,DHT-DT,DEP+0.04,Y2,DHT,BEECH);   // Tisch links (1,60 m, Fensterseite): steht 4 cm weiter im Raum (Angabe)
+box(0.15,Y1,DHT-DT,DEP+0.15,Y2,DHT,BEECH);   // Tisch links (1,60 m, Fensterseite): steht ca. 15 cm weiter im Raum (aus Foto geschätzt)
 box(0,Y0,DHT-DT,DEP,Y1,DHT,BEECH);   // Tisch rechts (0,80 m, Türseite): steht an der Wand/Fußleiste
-[[Y1+0.15,0.04],[Y2-0.15,0.04],[Y0+0.15,0],[Y1-0.15,0]].forEach(function(q){var yc=q[0],dx=q[1];
+[[Y1+0.15,0.15],[Y2-0.15,0.15],[Y0+0.15,0],[Y1-0.15,0]].forEach(function(q){var yc=q[0],dx=q[1];
   box(0.37+dx,yc-0.03,0.04,0.43+dx,yc+0.03,DHT-DT,BLK);   // Standbein
   box(0.10+dx,yc-0.03,0,0.70+dx,yc+0.03,0.04,BLK);        // Fuß
 });
@@ -653,7 +653,7 @@ Object.keys(RUGS).forEach(function(n){var R=RUGS[n],r=R.r,s=room.children.length
 
 cat='stuhl';
 // Stuhlunterlage 100 x 120 cm + Bürostuhl (Maße geschätzt: Sitz 50 x 50, Gesamthöhe 98, Fußkreuz Ø 66)
-var MX0=0.69,MX1=1.69,MY0=2.20,MY1=3.40,CCX=1.07,CCY=2.80;   // mittig unter dem 1,60-m-Tischteil (y 2,00-3,60)   // Unterlage 1,00 m (Tisch -> Sofa, kurze Seite) x 1,20 m (längs zum Tisch), ragt 15 cm unter den langen Tisch (Angabe), reicht 7 cm unters Sofa
+var MX0=0.80,MX1=1.80,MY0=2.20,MY1=3.40,CCX=1.07,CCY=2.80;   // mittig unter dem 1,60-m-Tischteil (y 2,00-3,60)   // Unterlage 1,00 m (Tisch -> Sofa, kurze Seite) x 1,20 m (längs zum Tisch), ragt 15 cm unter den langen Tisch (Angabe), reicht 18 cm unters Sofa
 box(MX0,MY0,0,MX1,MY1,0.008,0x6e6e72);
 var CHC=0x222226;
 box(CCX-0.225,CCY-0.225,0.45,CCX+0.225,CCY+0.225,0.51,CHC);      // Sitzfläche 45 x 45
@@ -679,8 +679,8 @@ box(CCX-0.04,CCY+0.24,0.51,CCX-0.01,CCY+0.27,0.63,CHC);
     fn(hx2,vy2);
     var g=new THREE.BufferGeometry();g.setAttribute('position',new THREE.Float32BufferAttribute(v,3));
     room.add(new THREE.LineSegments(g,new THREE.LineBasicMaterial({color:0xd2691e})));}
-  mk('abstand',function(hx2){hx2(2.10,0.84,SX0);hx2(2.95,CCX+0.275,SX0);});
-  mk('stuhl',function(hx2,vy2){hx2(MY0,MX0,MX1);hx2(MY0-0.12,MX0,0.84);vy2(MX1,MY0,MY1);});
+  mk('abstand',function(hx2){hx2(2.10,0.95,SX0);hx2(2.95,CCX+0.275,SX0);});
+  mk('stuhl',function(hx2,vy2){hx2(MY0,MX0,MX1);hx2(MY0-0.12,MX0,0.95);vy2(MX1,MY0,MY1);});
 })();
 cat='tisch';
 var pcLedMats=[];
@@ -891,8 +891,8 @@ var LC={'Schreibtisch 2,40 m':'tisch','Höhe 72 cm':'tisch','Tiefe 80 cm':'tisch
  'Sideboard 180 × 42 × 38 cm':'sideboard','Sideboard TONSTAD 178,4 × 37,2 × 54,9 cm':'sideboardT','54,9 cm':'sideboardT','178,4 cm':'sideboardT','Rest bis Fensterwand ≈ 0,10 m (TONSTAD)':'sideboardT','38 cm':'sideboard','180 cm':'sideboard','Rest bis Fensterwand ≈ 0,09 m':'sideboard',
  'Fernseher 75" · Panel 166,8 × 95,8 × 7,7 cm · 22 kg (BESTÅ trägt 30 kg)':'tv','Bilddiagonale ≈ 189 cm (75 Zoll)':'tv','100,8 cm (mit Füßen)':'tv','138,8 cm gesamt':'tv',
  'Sofa SÖRVALLEN 284 × 193 × 88 cm':'sofa','284 cm':'sofa','85 cm Platz hinter dem Sofa (Schräge dort 62–137 cm hoch)':'sofa','Tiefe 102 cm':'sofa','193 cm':'sofa','Decke 137 cm: 49 cm Luft über Rücken (88 cm)':'sofa','15 cm bis Heizkörper':'sofa','Schlaffläche 239 × 147 cm':'bett','239 cm':'bett','147 cm':'bett','Bettkante bis Sideboard 89 cm':'bett','Couchtisch LACK 90 × 55 × 45 cm':'ctn','Breite 90 cm':'ctn','Tiefe 55 cm':'ctn','bis Sofa 40 cm':'ctn','bis Récamiere 36 cm':'ctn','bis Sideboard 85 cm':'ctn','Höhe 45 cm':'ctn','Couchtisch LACK 90 × 55 × 45 cm (hinter dem Sofa)':'ctb','Breite 90 cm (hinter dem Sofa)':'ctb','Tiefe 55 cm (hinter dem Sofa)':'ctb','bis Sofa 10 cm':'ctb','bis Schrägenwand 20 cm':'ctb','Tischhöhe 45 cm':'ctb',
- 'Unterlage 120 cm':'stuhl','15 cm unter Tischplatte':'stuhl','Unterlage 100 cm':'stuhl','Unterlage 7 cm unterm Sofa':'stuhl','Bürostuhl (geschätzt)':'stuhl',
- 'Tisch bis Sofa 78 cm':'abstand','Stuhl–Sofa 27 cm':'abstand'};Object.assign(LC,RUGLC);LEDLB.forEach(function(l){LC[l[0]]='led';});TVLB.forEach(function(l){LC[l[0]]='tvled';});TVLB65.forEach(function(l){LC[l[0]]='tvled65';});TVLBL65.forEach(function(l){LC[l[0]]='tv65';});TVLB85.forEach(function(l){LC[l[0]]='tvled85';});TVLBL85.forEach(function(l){LC[l[0]]='tv85';});SFLB.forEach(function(l){LC[l[0]]='sofaled';});
+ 'Unterlage 120 cm':'stuhl','15 cm unter Tischplatte':'stuhl','Unterlage 100 cm':'stuhl','Unterlage 18 cm unterm Sofa':'stuhl','Bürostuhl (geschätzt)':'stuhl',
+ 'Tisch bis Sofa 67 cm':'abstand','Stuhl–Sofa 27 cm':'abstand'};Object.assign(LC,RUGLC);LEDLB.forEach(function(l){LC[l[0]]='led';});TVLB.forEach(function(l){LC[l[0]]='tvled';});TVLB65.forEach(function(l){LC[l[0]]='tvled65';});TVLBL65.forEach(function(l){LC[l[0]]='tv65';});TVLB85.forEach(function(l){LC[l[0]]='tvled85';});TVLBL85.forEach(function(l){LC[l[0]]='tv85';});SFLB.forEach(function(l){LC[l[0]]='sofaled';});
 var labels=[
  ['4,76 m',W/2,-NY-0.25,0],['4,465 m (Fensterwand)',W+0.25,(D-NY)/2,0],['4,09 m',-0.25,D/2,0],['Raumhöhe 2,30 m*',-0.2,-0.2,H/2],
  ['Schräge unten 0,62 m',W+0.2,D,K/2],['Schräge 1,90 m',W+0.15,YS,H],['Tür 0,95 m',0.6,-0.1,2.12],
@@ -908,8 +908,8 @@ var labels=[
  ['Schlaffläche 239 × 147 cm',3.05,(BYF+BYR)/2,0.9],['239 cm',(BXA+BXB)/2,BYF-0.15,0.02],['147 cm',SX0-0.12,(BYF+BYR)/2,0.02],['Bettkante bis Sideboard 89 cm',4.10,(SBD+BYF)/2,0.02],
  ['Couchtisch LACK 90 × 55 × 45 cm',(CTN[0]+CTN[2])/2,(CTN[1]+CTN[3])/2,0.62],['Breite 90 cm',(CTN[0]+CTN[2])/2,CTN[1]-0.10,0.02],['Tiefe 55 cm',2.08,(CTN[1]+CTN[3])/2,0.02],['bis Sofa 40 cm',2.08,(CTN[3]+D-SGAP-1.02)/2,0.02],['bis Récamiere 36 cm',(CTN[2]+SX0+1.825)/2,1.55,0.02],['bis Sideboard 85 cm',2.75,(SBD+CTN[1])/2,0.02],['Höhe 45 cm',CTN[2]+0.06,1.545,0.22],['Couchtisch LACK 90 × 55 × 45 cm (hinter dem Sofa)',(CTB[0]+CTB[2])/2,(CTB[1]+CTB[3])/2,0.62],['Breite 90 cm (hinter dem Sofa)',(CTB[0]+CTB[2])/2,CTB[3]+0.10,0.02],['Tiefe 55 cm (hinter dem Sofa)',2.50,(CTB[1]+CTB[3])/2,0.02],['bis Sofa 10 cm',2.50,D-SGAP+0.05,0.02],['bis Schrägenwand 20 cm',3.70,(CTB[3]+D)/2,0.02],['Tischhöhe 45 cm',CTB[2]+0.06,(CTB[1]+CTB[3])/2,0.22],
  
- ['Tisch bis Sofa 78 cm',(0.84+SX0)/2,2.10,0.03],['Unterlage 100 cm',(MX0+MX1)/2,MY0-0.04,0.03],['15 cm unter Tischplatte',MX0+0.07,MY0-0.12,0.03],['Unterlage 120 cm',MX1,(MY0+MY1)/2,0.03],
- ['Stuhl–Sofa 27 cm',(CCX+0.275+SX0)/2,2.95,0.03],['Unterlage 7 cm unterm Sofa',MX1,MY0-0.12,0.03],['Bürostuhl (geschätzt)',CCX,CCY,1.12],['99,8 cm',PX0+PW/2,0.75,0.02],['Lücke 4 cm (Türen 90°)',(1.733+PX0)/2,0.30,0.02],['180 cm',SB0+SBW/2,0.75,0.02],['Rest bis Fensterwand ≈ 0,09 m',(SB0+SBW+W)/2,0.75,0.02],['178,4 cm',SBT.X0+SBT.W/2,0.75,0.02],['Rest bis Fensterwand ≈ 0,10 m (TONSTAD)',SBT.X0+SBT.W+0.115,0.75,0.02]
+ ['Tisch bis Sofa 67 cm',(0.95+SX0)/2,2.10,0.03],['Unterlage 100 cm',(MX0+MX1)/2,MY0-0.04,0.03],['15 cm unter Tischplatte',MX0+0.07,MY0-0.12,0.03],['Unterlage 120 cm',MX1,(MY0+MY1)/2,0.03],
+ ['Stuhl–Sofa 27 cm',(CCX+0.275+SX0)/2,2.95,0.03],['Unterlage 18 cm unterm Sofa',MX1,MY0-0.12,0.03],['Bürostuhl (geschätzt)',CCX,CCY,1.12],['99,8 cm',PX0+PW/2,0.75,0.02],['Lücke 4 cm (Türen 90°)',(1.733+PX0)/2,0.30,0.02],['180 cm',SB0+SBW/2,0.75,0.02],['Rest bis Fensterwand ≈ 0,09 m',(SB0+SBW+W)/2,0.75,0.02],['178,4 cm',SBT.X0+SBT.W/2,0.75,0.02],['Rest bis Fensterwand ≈ 0,10 m (TONSTAD)',SBT.X0+SBT.W+0.115,0.75,0.02]
 ].concat(RUGLB).concat(LEDLB).concat(TVLB).concat(TVLB65).concat(TVLBL65).concat(TVLB85).concat(TVLBL85).concat(SFLB).map(function(l){var d=document.createElement('div');d.className='lbl';d.textContent=l[0];stage.appendChild(d);return {el:d,p:P(l[1],l[2]-(({schrank:1,sideboard:1,sideboardT:1,tv:1,tv65:1,tv85:1,tvled:1,tvled65:1,tvled85:1})[LC[l[0]]]?NY:0),l[3]),cat:LC[l[0]]||'raum'};});
 // Nische: Schrank, Sideboard, Fernseher und TV-LED stehen an der neuen Rückwand (NY weiter hinten)
 // Texturen für Möbel, die bisher nur eine Grundfarbe hatten (Lambert-Farbe wirkt als Tönung auf die helle Textur)
